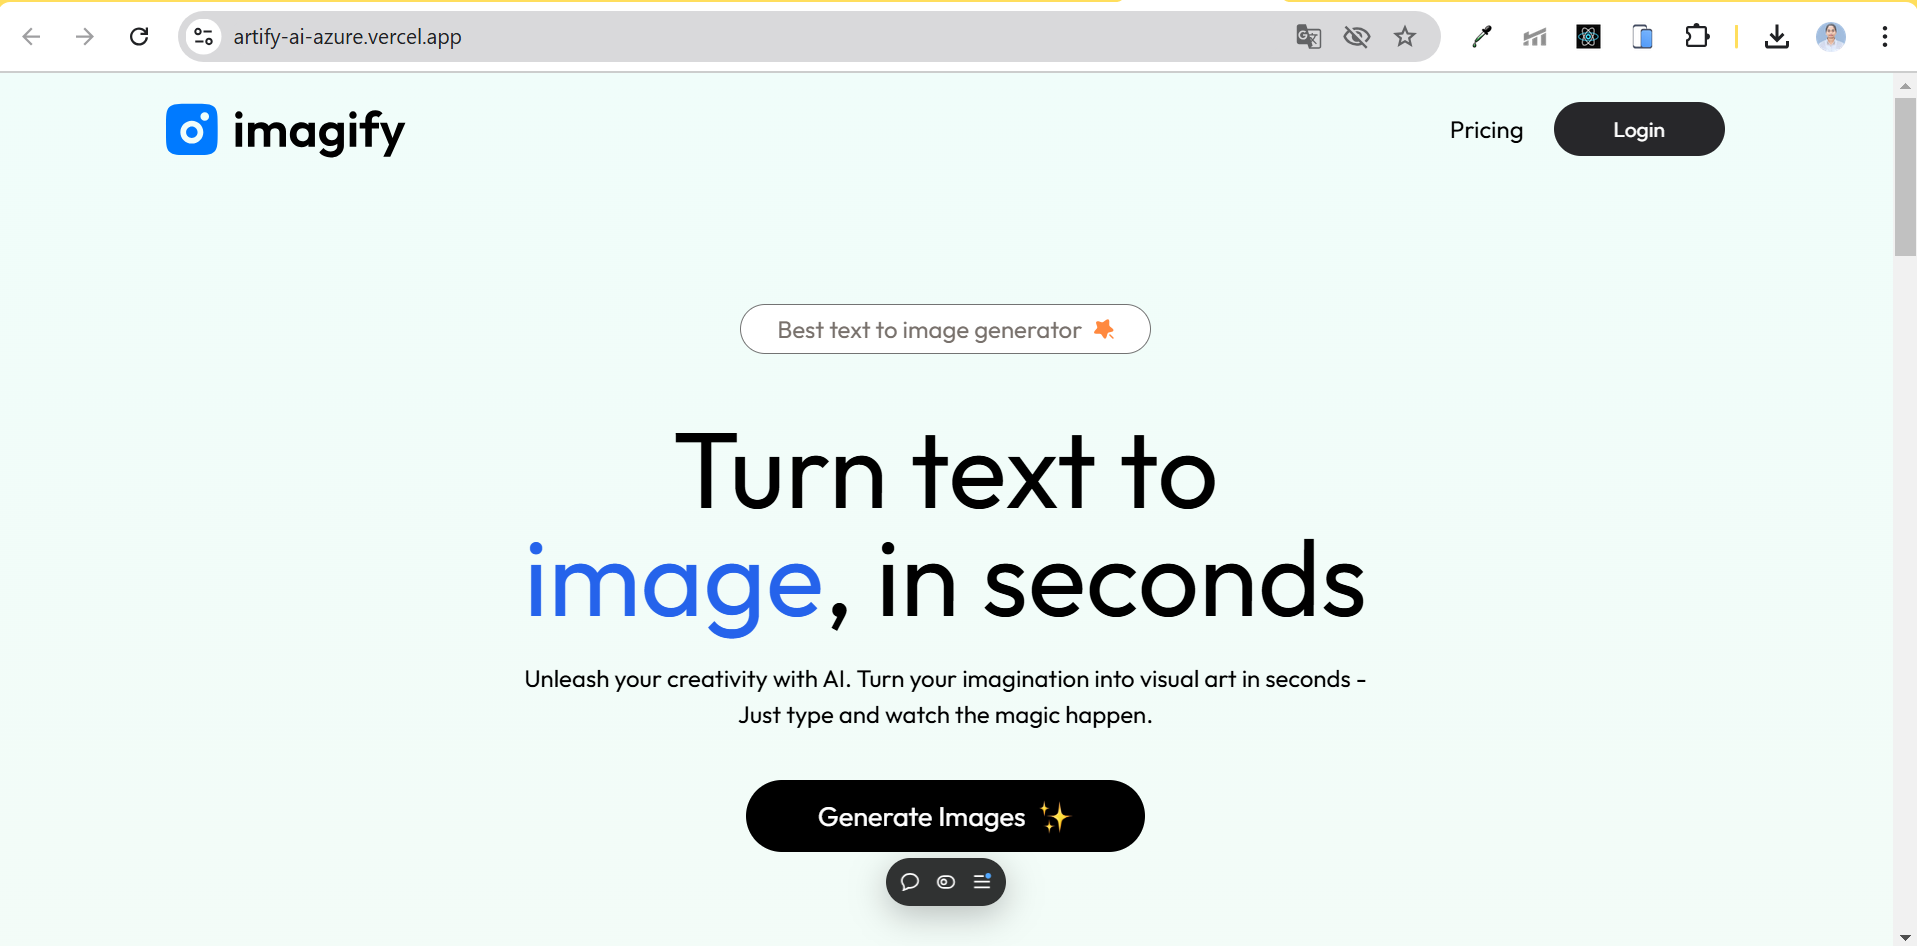
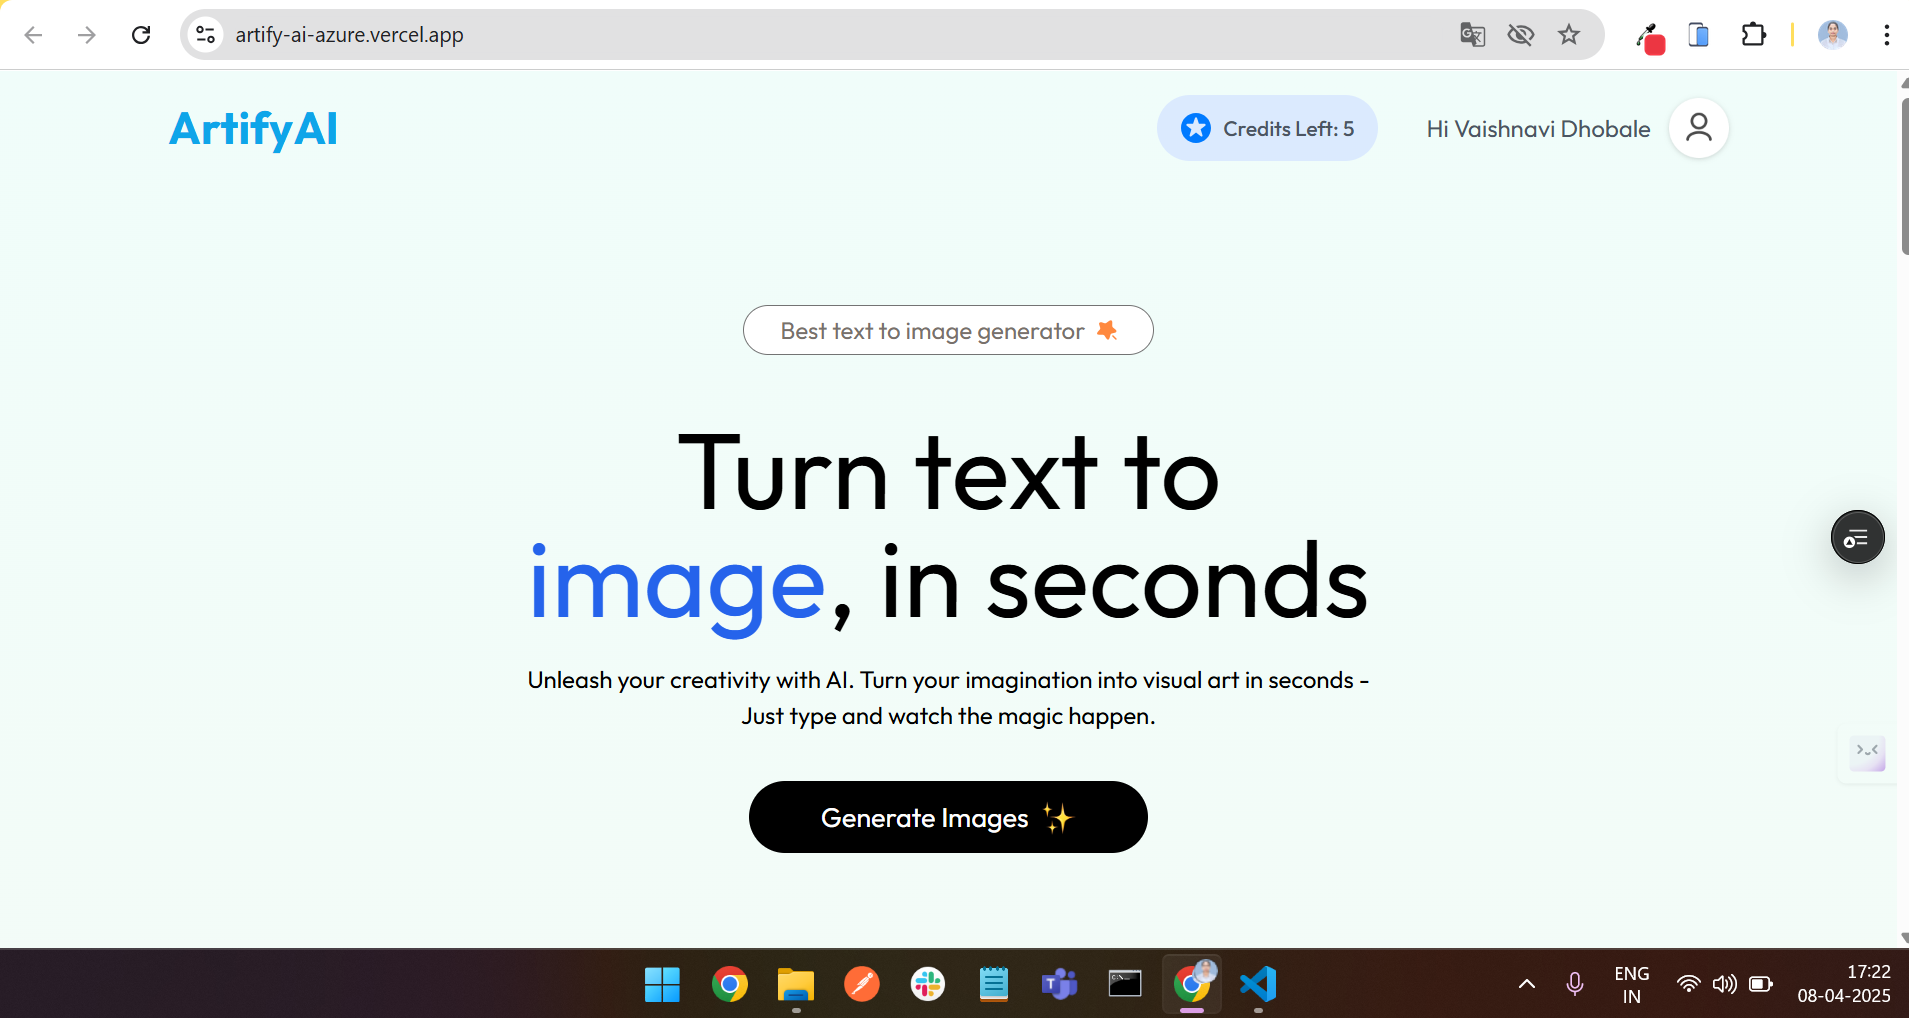
add more projects.

diff --git a/src/pages/Projects.jsx b/src/pages/Projects.jsx
@@ -19,6 +19,7 @@ import LoseIt from "../images/proj-2.png";
 import Proj3 from "../images/proj-3.png";
 import Amazon from "../images/proj-4.png";
 import DefencePost from "../images/Proj5.png";
+import ColmarProject from "../images/colmarProject.png"
 import RCTravels from "../images/RCTravels.png";
 import TheBookBridge from "../images/TheBookBridge.png"
 import { SiPhp } from "react-icons/si";
@@ -128,6 +129,15 @@ export default function Projects() {
       tech_stack: techArr,
       gitHub: "https://github.com/VaishnaviDhobale/short-whip-5406",
       deploy: "https://spontaneous-cuchufli-e48ffa.netlify.app/",
+      type: "INDIVIDUAL",
+    },
+    {
+      img: ColmarProject,
+      title: "Colmar Academy",
+      desc: "A responsive and modern educational landing page built using HTML and CSS. This project replicates a fictional educational institution called 'Colmar Academy', showcasing its features, programs, and offerings.",
+      tech_stack: techArr,
+      gitHub: "https://github.com/VaishnaviDhobale/Colmar-Academy-Project",
+      deploy: "https://vaishnavidhobale.github.io/Colmar-Academy-Project/",
       type: "INDIVIDUAL",
     }    
   ];
